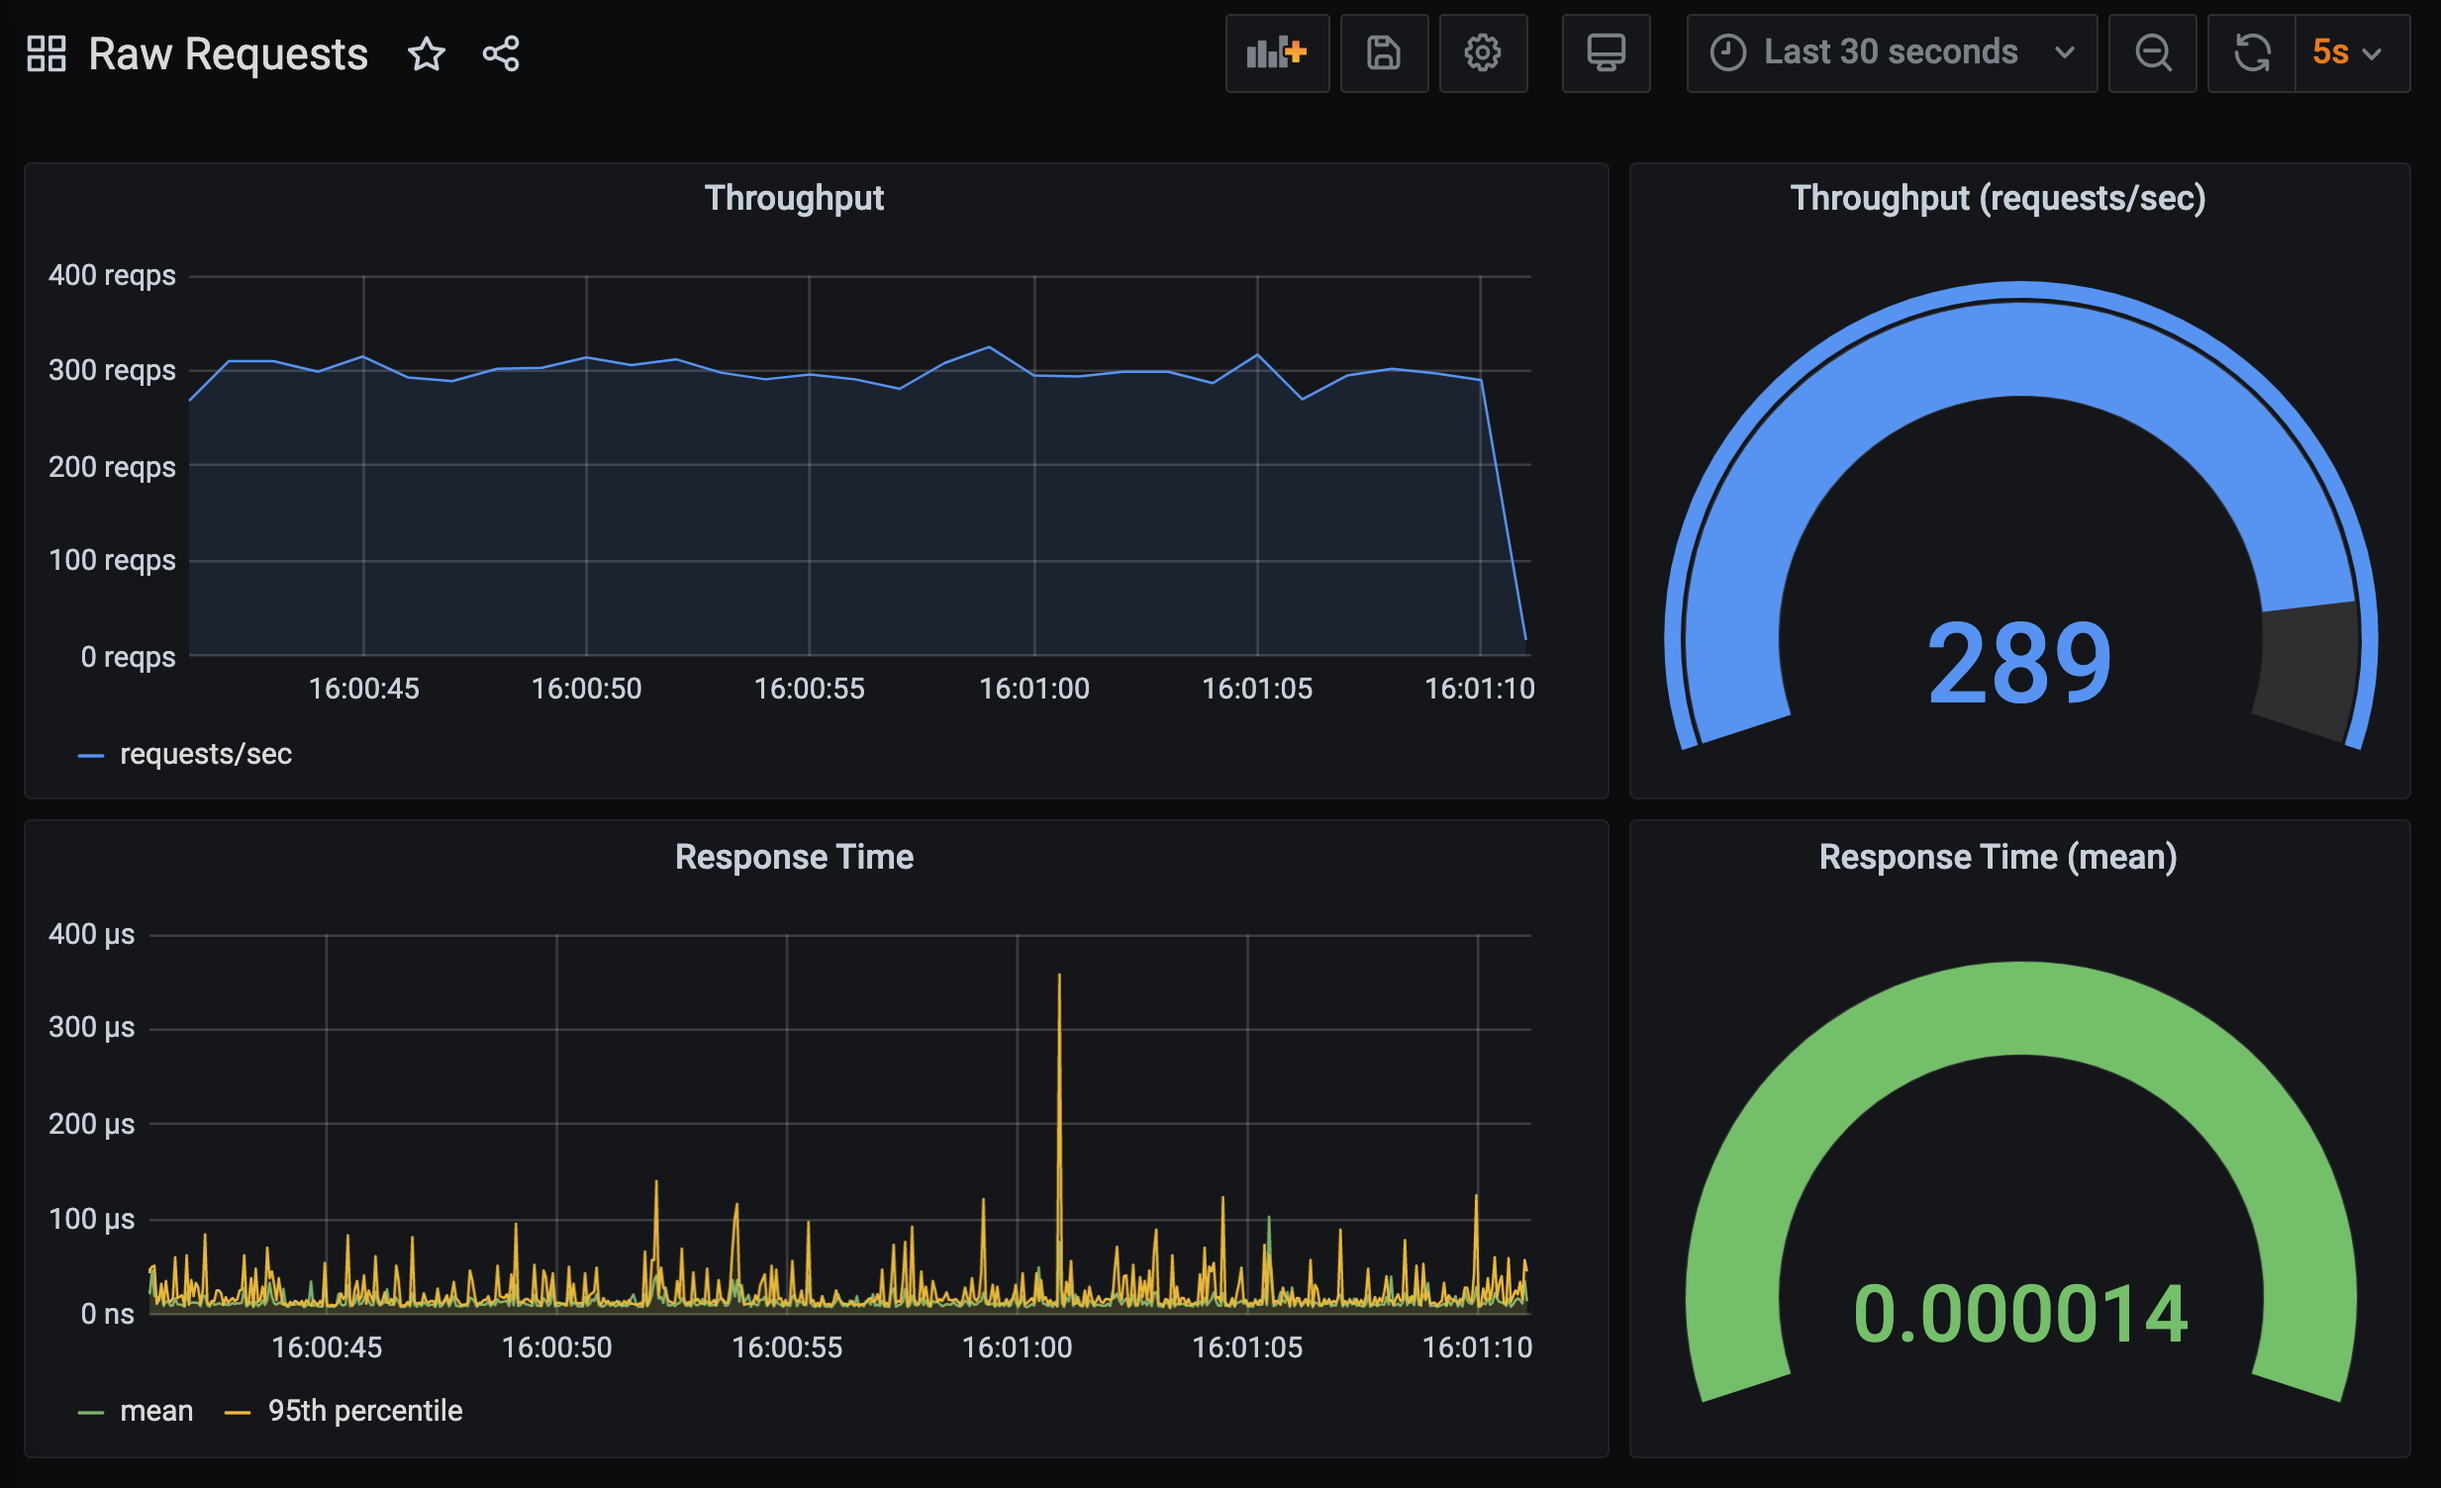
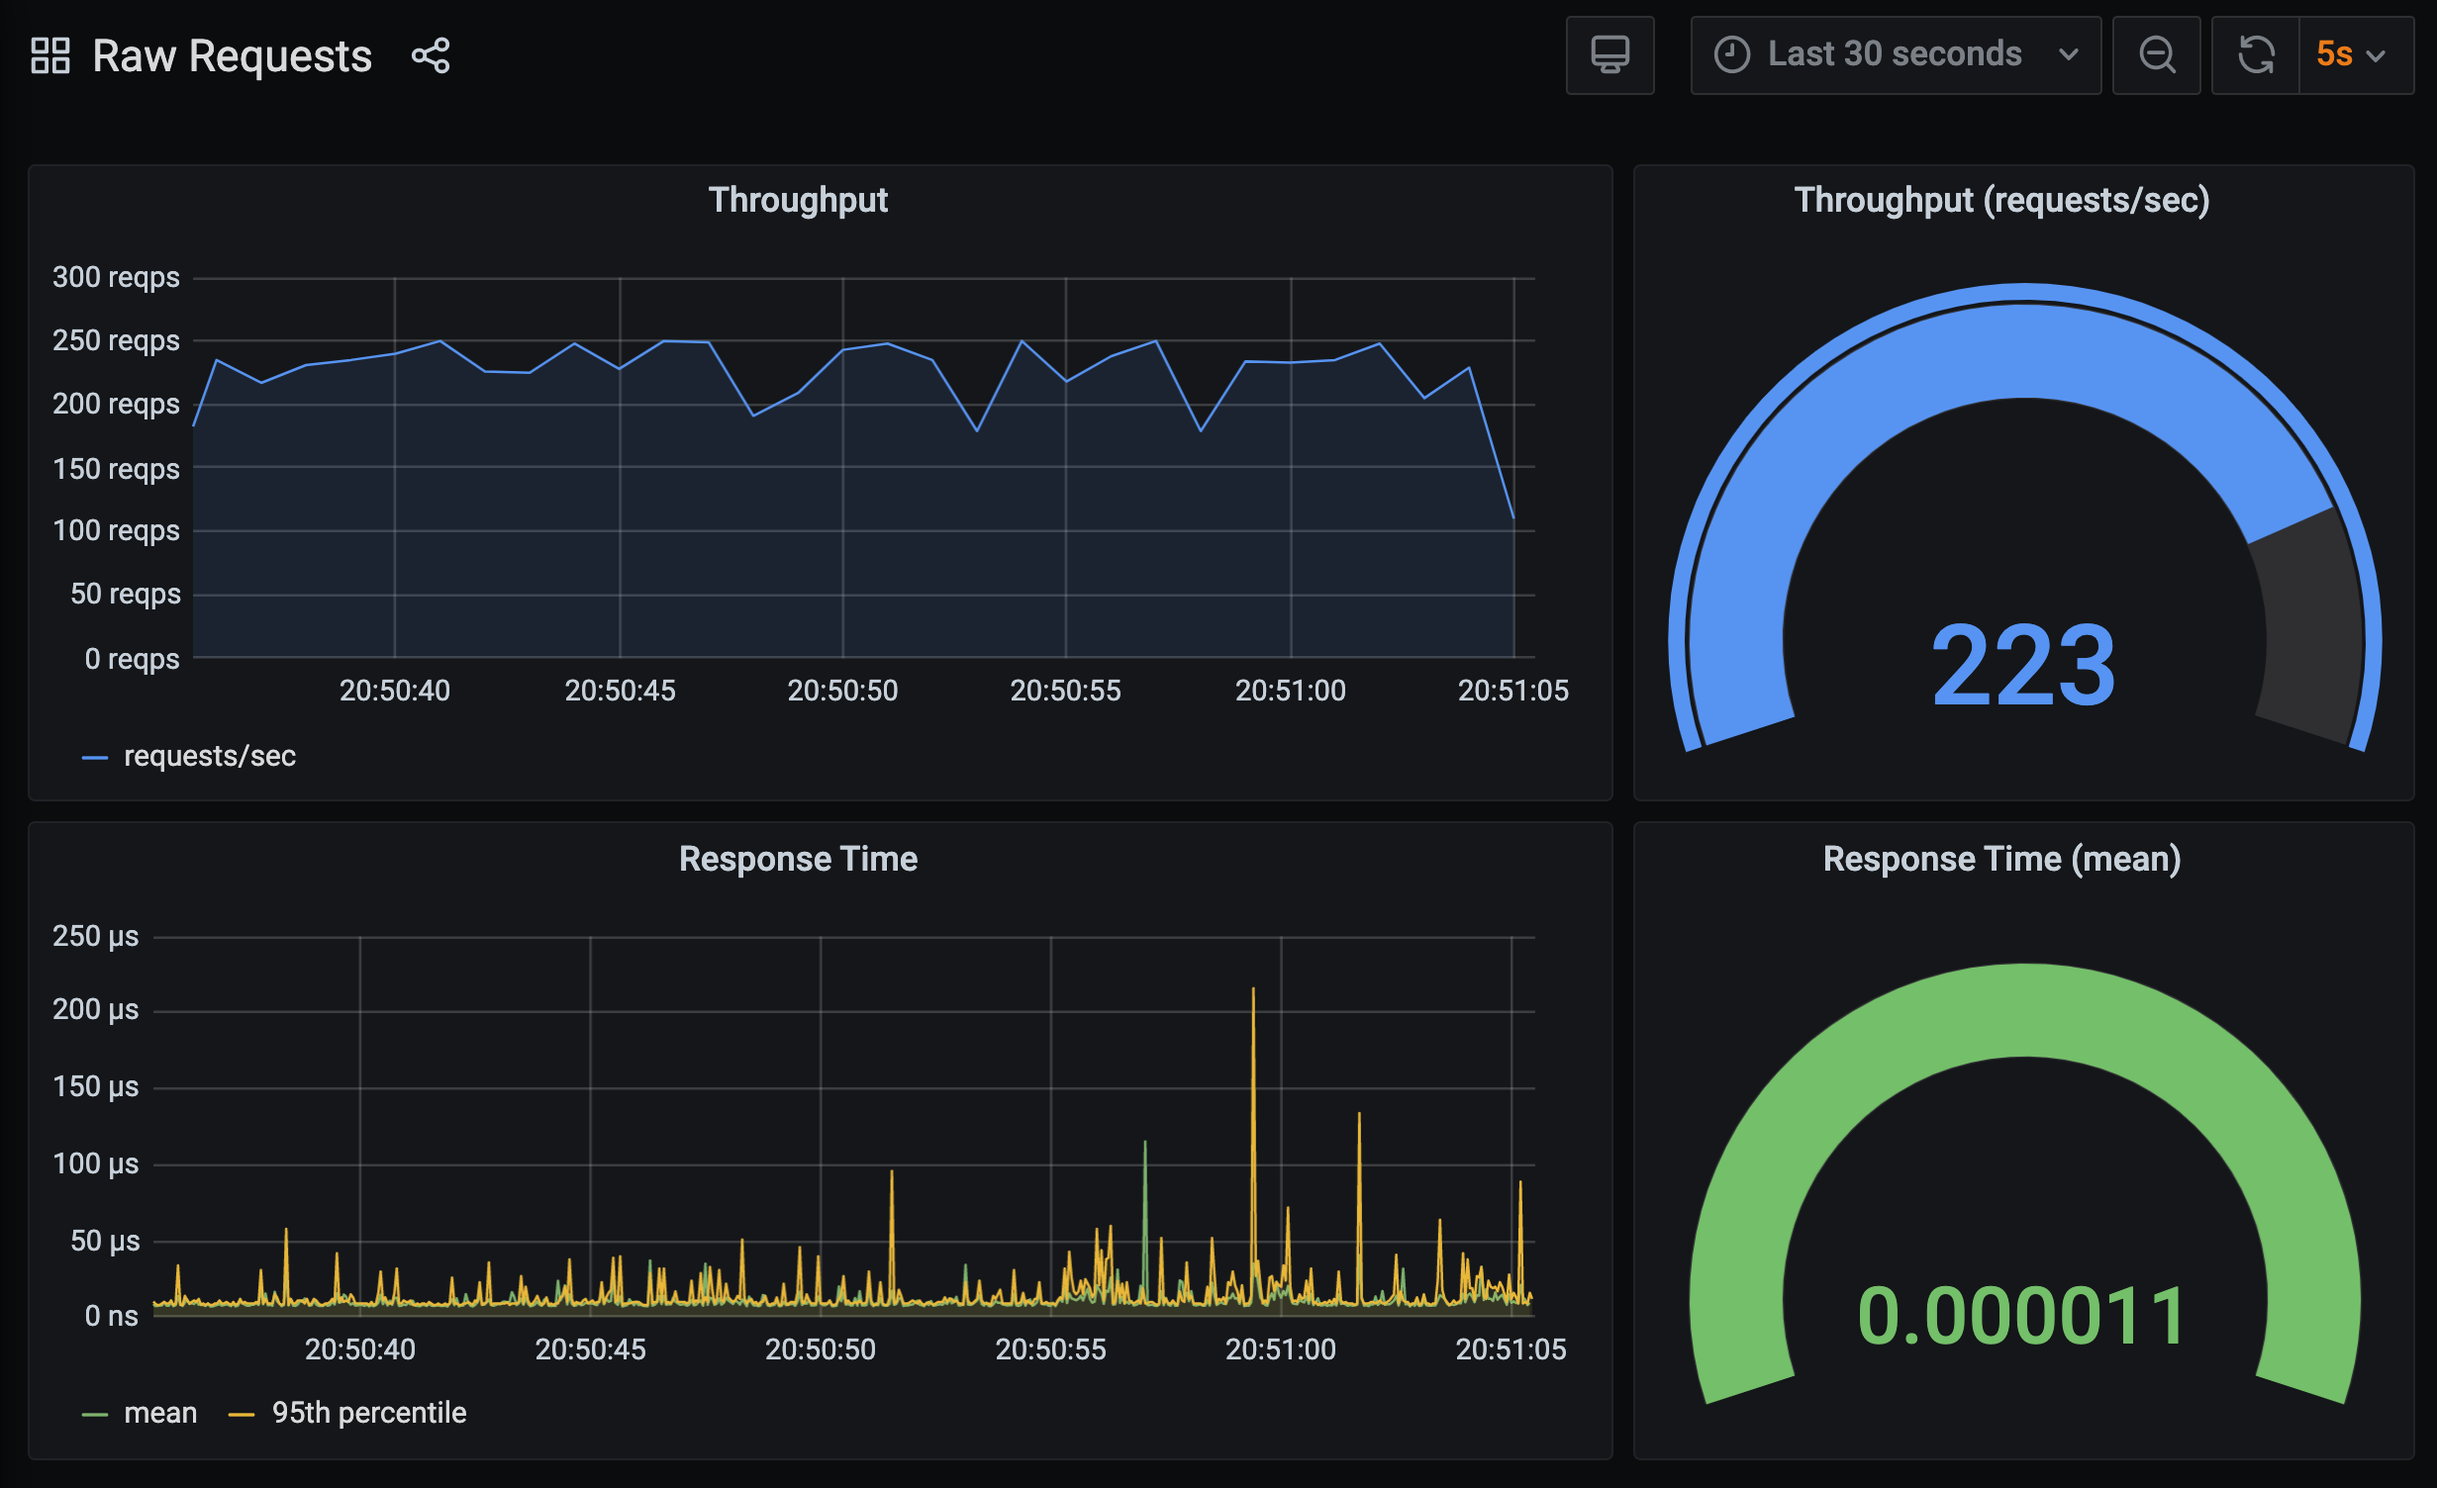
Update details/images on timing decorator.

diff --git a/workshop/content/exercises/03-timing-decorator.md b/workshop/content/exercises/03-timing-decorator.md
@@ -1,6 +1,6 @@
-The most basic aim of collecting metrics from a web application is to record the number of HTTP requests it receives and how long the requests take to be handled. This will give you an idea of how popular your web site is, how well it is performing, and thus whether a user of your web site might be happy using your site.
+The most basic aim of collecting metrics from a web application is to record the number of HTTP requests it receives and how long the requests take to be handled. This will give you an idea of how popular your web site is and how well it is performing.
 
-For Python WSGI applications, all HTTP requests are handled through a single WSGI application callable object, or entrypoint. The most obvious approach for recording details about HTTP requests, is thus to apply a wrapper to that entrypoint to record details of calls.
+For Python WSGI applications, all HTTP requests are handled through a single WSGI application callable object, or entrypoint. The most obvious approach for recording details about HTTP requests is thus to apply a wrapper to that entrypoint to record details of calls.
 
 Open up the code file for our next example WSGI application. This can be found in `~/exercises/hello-world-v2/wsgi_1.py`.
 
@@ -48,7 +48,7 @@ command: mod_wsgi-express start-server hello-world-v2/wsgi_1.py --log-to-termina
 To simulate a batch of HTTP requests being sent to the WSGI application, the `bombardier` HTTP benchmarking program can be used. Run in the second terminal:
 
 ```terminal:execute
-command: bombardier -d 120s -c 5 http://localhost:8000
+command: bombardier -d 120s -c 3 -r 500 http://localhost:8000
 session: 2
 ```
 
@@ -69,7 +69,18 @@ This is the first trap of performing benchmarking of web applications. The resul
 
 Further, in this case we are running the benchmarking tool on the same host as where the application is running, meaning the benchmarking tool is stealing away CPU cycles that could have been used by the web application, thus affecting its performance.
 
-There are various other mistakes one can make when trying to perform benchmarking and instrumenting web applications. We will touch on a range of these as we go along, but right now we have an even bigger problem, which is our decorator will record incorrect results for certain ways that a WSGI application can be implemented.
+You can see how CPU and memory resources are being divided up between the various processes we have running by viewing the **Process Info** dashboard in Grafana.
+
+```dashboard:reload-dashboard
+name: Grafana
+url: {{ingress_protocol}}://{{session_namespace}}-grafana.{{ingress_domain}}{{ingress_port_suffix}}/d/process-info?orgId=1&refresh=5s
+```
+
+Right now `bombardier` isn't consuming that much CPU relative to the WSGI application, but there is a reason for that we will get to later.
+
+![](hello-world-v2-1-process-info.png)
+
+Before we look at that though we have a bigger problem, which is that our decorator isn't actually going to record the duration taken to handle the request correctly for certain ways that a WSGI application can be implemented.
 
 Stop `bombardier` if it is still running, as well as the WSGI application.
 

diff --git a/workshop/content/workshop-overview.md b/workshop/content/workshop-overview.md
@@ -1,6 +1,6 @@
-This workshop explores generating metrics from mod_wsgi and how you might use metrics to tune Apache and mod_wsgi.
+This workshop explores generating metrics from mod_wsgi and how you might use metrics as input to decisions around tuning Apache and mod_wsgi.
 
-As a whole, the workshop is still very much a work in progress and there are many more topics which will eventually be covered. Completion of the workshop may take some time. If you have any feedback about the workshop then you can direct them to @GrahamDumpleton on Twitter.
+As a whole, the workshop is still very much a work in progress and there are many more topics which will eventually be covered. Completion of the workshop may take some time. If you have any feedback about the workshop then you can direct them to [@GrahamDumpleton](https://twitter.com/GrahamDumpleton) on Twitter.
 
 For the workshop we will be using `mod_wsgi-express`, however concepts should be transferable to a manually configured Apache and mod_wsgi installation.
 

diff --git a/workshop/content/exercises/02-testing-mod-wsgi.md b/workshop/content/exercises/02-testing-mod-wsgi.md
@@ -16,7 +16,8 @@ This should result in the output:
 Server URL         : http://localhost:8000/
 Server Root        : /tmp/mod_wsgi-localhost:8000:1001
 Server Conf        : /tmp/mod_wsgi-localhost:8000:1001/httpd.conf
-Error Log File     : /tmp/mod_wsgi-localhost:8000:1001/error_log (warn)
+Error Log File     : /dev/stderr (warn)
+Operating Mode     : daemon
 Request Capacity   : 5 (1 process * 5 threads)
 Request Timeout    : 60 (seconds)
 Startup Timeout    : 15 (seconds)
